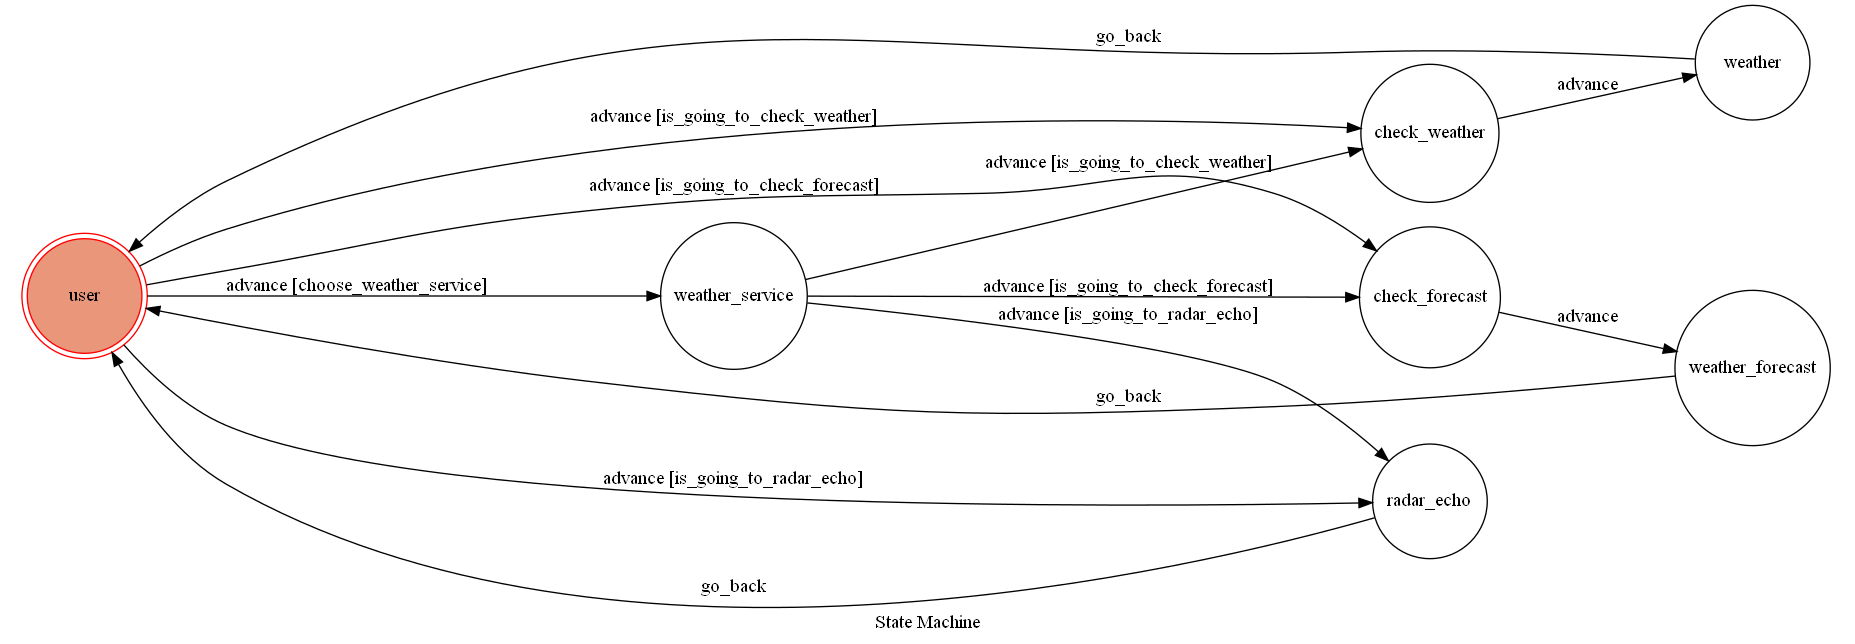
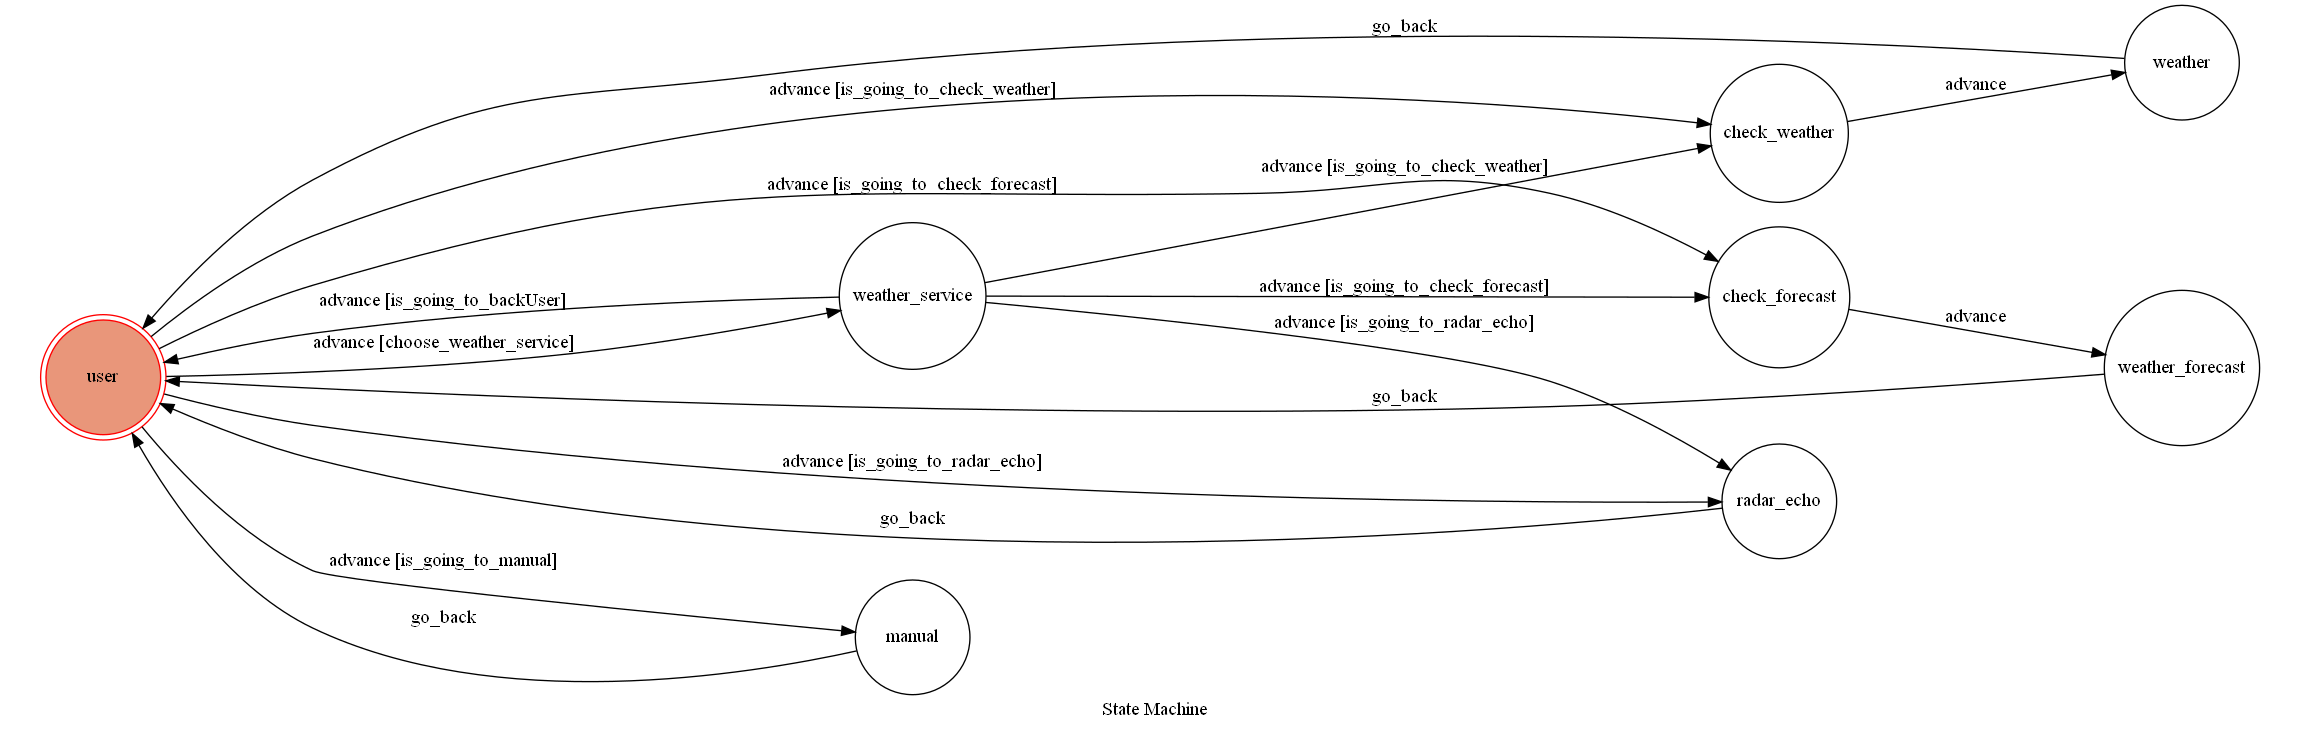
Finish weather functions

diff --git a/fsm.py b/fsm.py
@@ -9,44 +9,24 @@ class TocMachine(GraphMachine):
 
     def choose_weather_service(self, event):
         text = event.message.text
-        return text.lower() == "天氣"
-    
-    def is_going_to_check_weather(self, event):
-        text = event.message.text
-        return text.lower() == "即時天氣"
-
-    def is_going_to_check_forecast(self, event):
-        text = event.message.text
-        return text.lower() == "天氣預報"
-
-    def is_going_to_radar_echo(self, event):
-        text = event.message.text
-        return text.lower() == "雷達回波"
+        return text == "天氣"
 
     def on_enter_weather_service(self, event):
         print("I'm entering Weather Service")
         reply_token = event.reply_token
         send_menu(reply_token)
         return "OK"
-
+    
+    def is_going_to_check_weather(self, event):
+        text = event.message.text
+        return text == "即時天氣"
+    
     def on_enter_check_weather(self, event):
         print("I'm entering Search Realtime")
         reply_token = event.reply_token
         send_text_message(reply_token, "請輸入縣市以及行政區\n(例如：台南市中西區)")
         return "OK"
-
-    def on_enter_check_forecast(self, event):
-        print("I'm entering Search Forecast")
-        reply_token = event.reply_token
-        send_text_message(reply_token, "請輸入縣市以及行政區\n(例如：台南市中西區)")
-        return "OK"  
-
-    def on_enter_radar_echo(self, event):
-        print("I'm entering Radar")
-        reply_token = event.reply_token
-        radar_echo(reply_token)
-        self.go_back() 
-
+    
     def on_enter_weather(self, event):
         print("I'm entering Weather")
         text = event.message.text
@@ -54,9 +34,47 @@ class TocMachine(GraphMachine):
         send_text_message(reply_token, check_weather(text))
         self.go_back()
 
+    def is_going_to_check_forecast(self, event):
+        text = event.message.text
+        return text == "天氣預報"
+
+    def on_enter_check_forecast(self, event):
+        print("I'm entering Search Forecast")
+        reply_token = event.reply_token
+        send_text_message(reply_token, "請輸入縣市以及行政區\n(例如：台南市中西區)")
+        return "OK"
+
     def on_enter_weather_forecast(self, event):
         print("I'm entering Weather Forecast")
         text = event.message.text 
         reply_token = event.reply_token
         send_text_message(reply_token, check_forecast(text))
         self.go_back()
+
+    def is_going_to_radar_echo(self, event):
+        text = event.message.text
+        return text == "雷達回波"
+
+    def on_enter_radar_echo(self, event):
+        print("I'm entering Radar echo")
+        reply_token = event.reply_token
+        radar_echo(reply_token)
+        self.go_back()
+
+    def is_going_to_backUser(self, event):
+        text = event.message.text
+        text = text.replace(" ", "")
+        func = ["即時天氣", "天氣預報", "雷達回波"]
+        return not text in func
+
+    def is_going_to_manual(self, event):
+        text = event.message.text 
+        text = text.replace(" ", "")
+        return (text.lower() == "?" or text.lower() == "？" )
+
+    def on_enter_manual(self, event):
+        print("I'm entering Manual")
+        reply_token = event.reply_token
+        send_text_message(reply_token, "不知道怎麼使用嗎？\n輸入\"天氣\"試試看吧\U00100085 ")
+        self.go_back()
+

diff --git a/utils.py b/utils.py
@@ -23,6 +23,7 @@ def send_menu(reply_token):
     message = TemplateSendMessage(
         alt_text='Buttons template',
         template=ButtonsTemplate(
+            thumbnail_image_url='https://i.imgur.com/VAoVSfD.png?1',
             title='天氣',
             text='請點選需要的服務',
             actions=[
@@ -60,12 +61,12 @@ def check_weather(location):
         data = data['records']['location']
         for j in data:
             if city == j['parameter'][0]['parameterValue'] and town == j['parameter'][2]['parameterValue']:
-                result = j['parameter'][0]['parameterValue'] + j['parameter'][2]['parameterValue'] + '\n\n'
+                result =  '\U0001F6A9  ' + j['parameter'][0]['parameterValue'] + j['parameter'][2]['parameterValue'] + '\n\n'
                 time = j['time']['obsTime'].split(' ')
-                result += '日期：' + time[0] + '\n'
-                result += '時間：' + time[1] + '\n'
-                result += '氣溫：' + j['weatherElement'][3]['elementValue'] + ' ℃\n'
-                result += '濕度：' + str(round(float(j['weatherElement'][4]['elementValue']) * 100)) + ' %'
+                result += '\U0001F4C5  ' + time[0] + '\n'
+                result += '\U0001F55B  ' + time[1] + '\n'
+                result += '\U00002600  ' + j['weatherElement'][3]['elementValue'] + ' ℃\n'
+                result += '\U0001F4A7  ' + str(round(float(j['weatherElement'][4]['elementValue']) * 100)) + ' %'
                 find = True
                 break
 
@@ -82,7 +83,7 @@ def check_forecast(location):
     taiwan = {'臺北市': '063', '新北市': '071', '基隆市': '051', '桃園市': '007', '新竹縣': '011', '新竹市': '055', '苗栗縣': '015', '臺中市': '075', '南投縣': '023', '彰化縣': '019', '雲林縣': '027', '嘉義縣': '031', '嘉義市': '059', '臺南市': '079', '高雄市': '067', '屏東縣': '035', '宜蘭縣': '003', '花蓮縣': '043', '臺東縣': '039', '澎湖縣': '047', '金門縣': '087', '連江縣': '083'}
     if city in taiwan:
         ID = taiwan.get(city)
-        result += city + town + '　三天天氣預報'
+        result += '\U001000A4' + city + town + '\U001000A4三天天氣預報\U001000A4'
 
         website = 'https://opendata.cwb.gov.tw/api/v1/rest/datastore/F-D0047-' + ID + '?Authorization=CWB-56562D80-292A-4ED6-BA0C-F6B5A1B82538&elementName=WeatherDescription'
         data = requests.get(website).json()
@@ -101,9 +102,9 @@ def check_forecast(location):
                 for j in range(3):
                     result += '\n' + tmp[j]
         else:
-            result = '查無結果\n請確認輸入內容'
+            result = '查無結果\U0010008E\n請確認輸入內容'
     else:
-        result = '查無結果\n請確認輸入內容'
+        result = '查無結果\U0010008E\n請確認輸入內容'
     return result
 
 def radar_echo(reply_token):

diff --git a/app.py b/app.py
@@ -14,7 +14,7 @@ load_dotenv()
 
 
 machine = TocMachine(
-    states=["user", "weather_service", "check_weather", "weather", "check_forecast", "weather_forecast", "radar_echo"],
+    states=["user", "weather_service", "check_weather", "weather", "check_forecast", "weather_forecast", "radar_echo", "manual"],
     transitions=[
         {
             "trigger": "advance",
@@ -58,9 +58,21 @@ machine = TocMachine(
             "dest": "radar_echo",
             "conditions": "is_going_to_radar_echo",
         },
+        {
+            "trigger": "advance",
+            "source": "weather_service",
+            "dest": "user",
+            "conditions": "is_going_to_backUser",
+        },
+        {
+            "trigger": "advance",
+            "source": "user",
+            "dest": "manual",
+            "conditions": "is_going_to_manual",
+        },
         {"trigger": "advance", "source": "check_weather", "dest": "weather"},
         {"trigger": "advance", "source": "check_forecast", "dest": "weather_forecast"},
-        {"trigger": "go_back", "source": ["weather", "weather_forecast", "radar_echo"], "dest": "user"},
+        {"trigger": "go_back", "source": ["weather", "weather_forecast", "radar_echo", "manual"], "dest": "user"},
     ],
     initial="user",
     auto_transitions=False,
